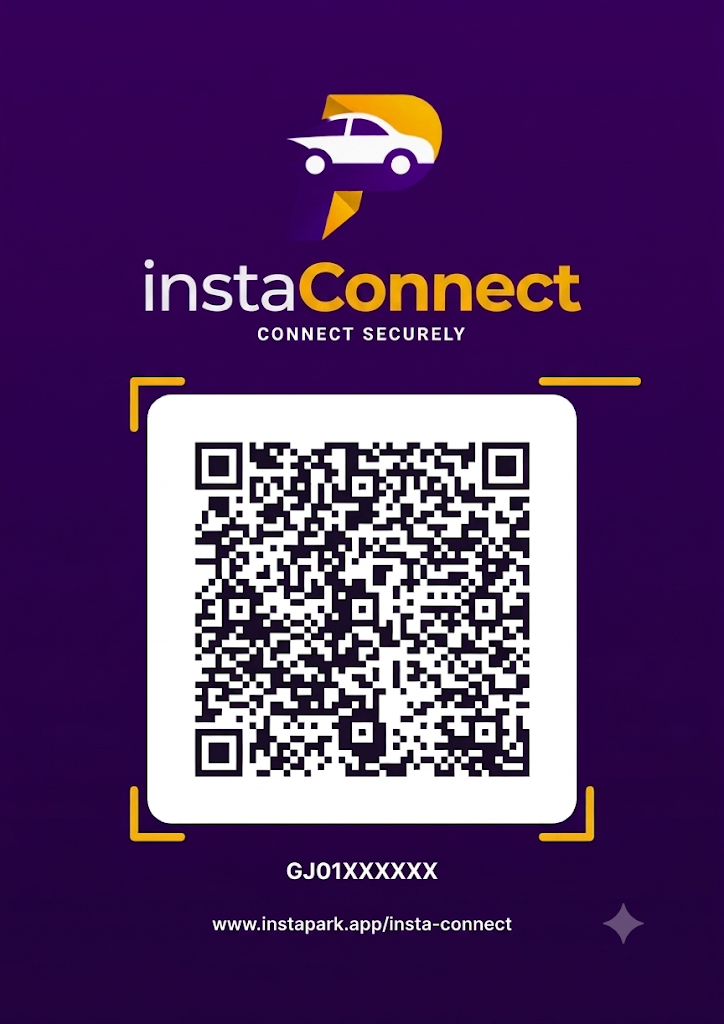
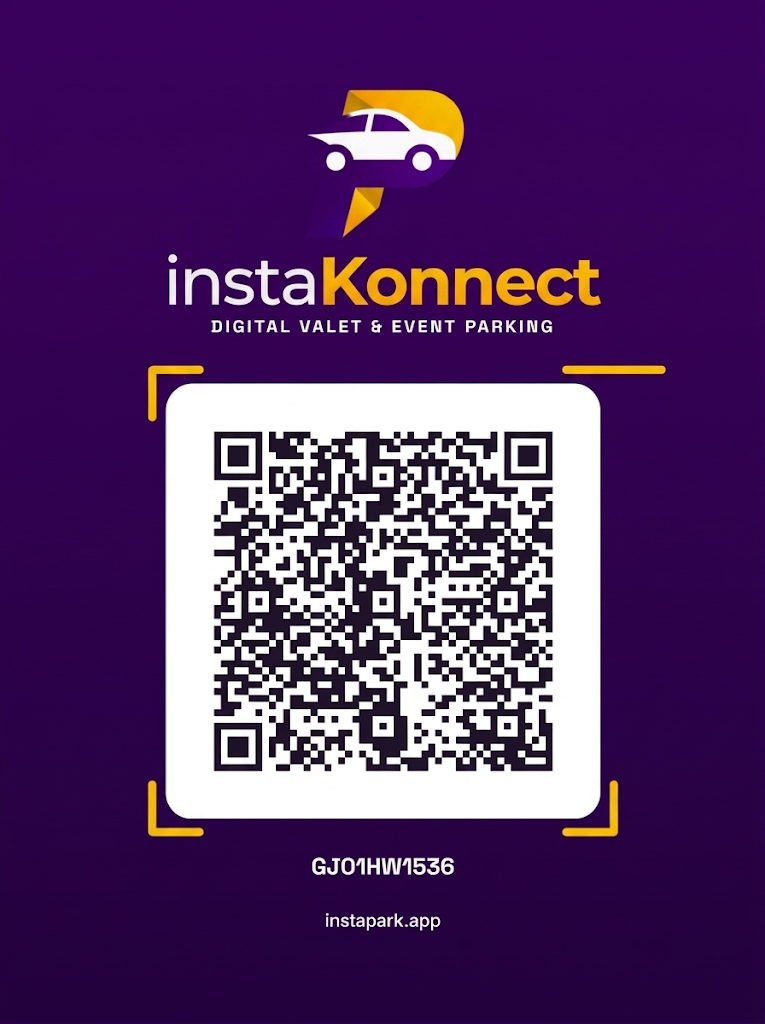
Swap instaKonnect QR tag artwork for the updated design

Changed region(s): [[0.1519, 0.3438, 0.8812, 0.9375], [0.1823, 0.0625, 0.8204, 0.3438], [0.8204, 0.875, 0.8812, 0.9375]]

diff --git a/src/components/instapark/instaconnect-preview.tsx b/src/components/instapark/instaconnect-preview.tsx
@@ -32,7 +32,7 @@ export function InstaConnectPreview() {
         <div className="mx-auto flex size-11 items-center justify-center rounded-lg bg-brand text-brand-foreground"><Car className="size-6" /></div>
         <h3 className="mt-3 text-center text-xl font-bold">Contact Vehicle Owner</h3>
         <p className="mt-2 text-center text-xs leading-relaxed text-muted-foreground">Is this vehicle blocking yours? Need to reach the owner?</p>
-        {step === 0 ? <div className="mt-5 text-center"><img src="/instaconnect-tag.png" alt="instaKonnect purple and gold vehicle QR tag" width={724} height={1024} className="mx-auto h-72 w-auto rounded-lg" /><p className="mt-4 flex items-center justify-center gap-2 text-xs font-semibold text-primary"><Check className="size-4" />Phone camera → Browser. Zero downloads.</p></div> : null}
+        {step === 0 ? <div className="mt-5 text-center"><img src="/instaconnect-tag.png" alt="instaKonnect purple and gold vehicle QR tag" width={765} height={1024} className="mx-auto h-72 w-auto rounded-lg" /><p className="mt-4 flex items-center justify-center gap-2 text-xs font-semibold text-primary"><Check className="size-4" />Phone camera → Browser. Zero downloads.</p></div> : null}
         {step === 1 ? <fieldset className="mt-6"><legend className="mb-3 text-sm font-semibold">Why are you contacting the owner?</legend><div className="space-y-2">{reasons.map((value) => <label key={value} className={`flex min-h-11 cursor-pointer items-center justify-between gap-3 rounded-lg border px-3 py-2 text-sm ${reason === value ? "border-primary bg-primary/10 text-foreground" : "border-border bg-card text-muted-foreground"}`}><span>{value}</span><input type="radio" name="contact-reason" value={value} checked={reason === value} onChange={() => setReason(value)} className="size-4 accent-primary" /></label>)}</div></fieldset> : null}
         {step === 2 ? <div className="mt-6 space-y-5"><div><label htmlFor="preview-plate" className="text-sm font-semibold">Last 4 digits of the car number</label><input id="preview-plate" value={plate} onChange={(e) => setPlate(e.target.value.replace(/\D/g, "").slice(0, 4))} inputMode="numeric" maxLength={4} placeholder="1234" className="mt-2 h-11 w-full rounded-lg border border-input bg-background px-3 text-sm focus-visible:outline-none focus-visible:ring-2 focus-visible:ring-ring" /><div className="mt-2 space-y-1 text-xs leading-relaxed text-muted-foreground"><p>GJ01AB 1234 → 1234</p><p>BH series: 22 BH 1234 AA → 1234</p><p>Short number such as 7? Enter 7 or 0007.</p></div></div><div><label htmlFor="preview-phone" className="text-sm font-semibold">Your mobile number</label><input id="preview-phone" type="tel" value={phone} onChange={(e) => setPhone(e.target.value)} placeholder="Your mobile number" className="mt-2 h-11 w-full rounded-lg border border-input bg-background px-3 text-sm focus-visible:outline-none focus-visible:ring-2 focus-visible:ring-ring" /><p className="mt-2 text-xs leading-relaxed text-muted-foreground">Used only to connect your call. The owner will not see it.</p></div></div> : null}
         {step === 3 ? <div className="mt-6 space-y-3"><p className="mb-4 text-xs text-muted-foreground">Reason: <strong className="text-foreground">{reason}</strong></p><div className="rounded-lg bg-brand p-4 text-brand-foreground"><div className="flex items-center gap-3"><PhoneCall className="size-6" /><div><p className="font-semibold">Call Owner</p><p className="mt-1 text-xs text-brand-foreground/80">Secure anonymous call</p></div><span className="ml-auto text-[10px] font-semibold text-gold">LIVE</span></div></div>{[["WhatsApp", "Send an urgent message"], ["SMS", "Send an SMS alert"]].map(([channel, sub]) => <div key={channel} className="flex items-center gap-3 rounded-lg border border-border bg-card p-4 text-muted-foreground"><MessageCircle className="size-5 shrink-0" /><span><span className="block text-sm font-semibold text-foreground">{channel}</span><span className="text-xs">{sub}</span></span><span className="ml-auto rounded bg-muted px-2 py-1 text-[9px] font-semibold">Coming Soon</span></div>)}<p className="pt-2 text-center text-xs leading-relaxed text-muted-foreground">Calls start only from an activated vehicle tag.</p></div> : null}
